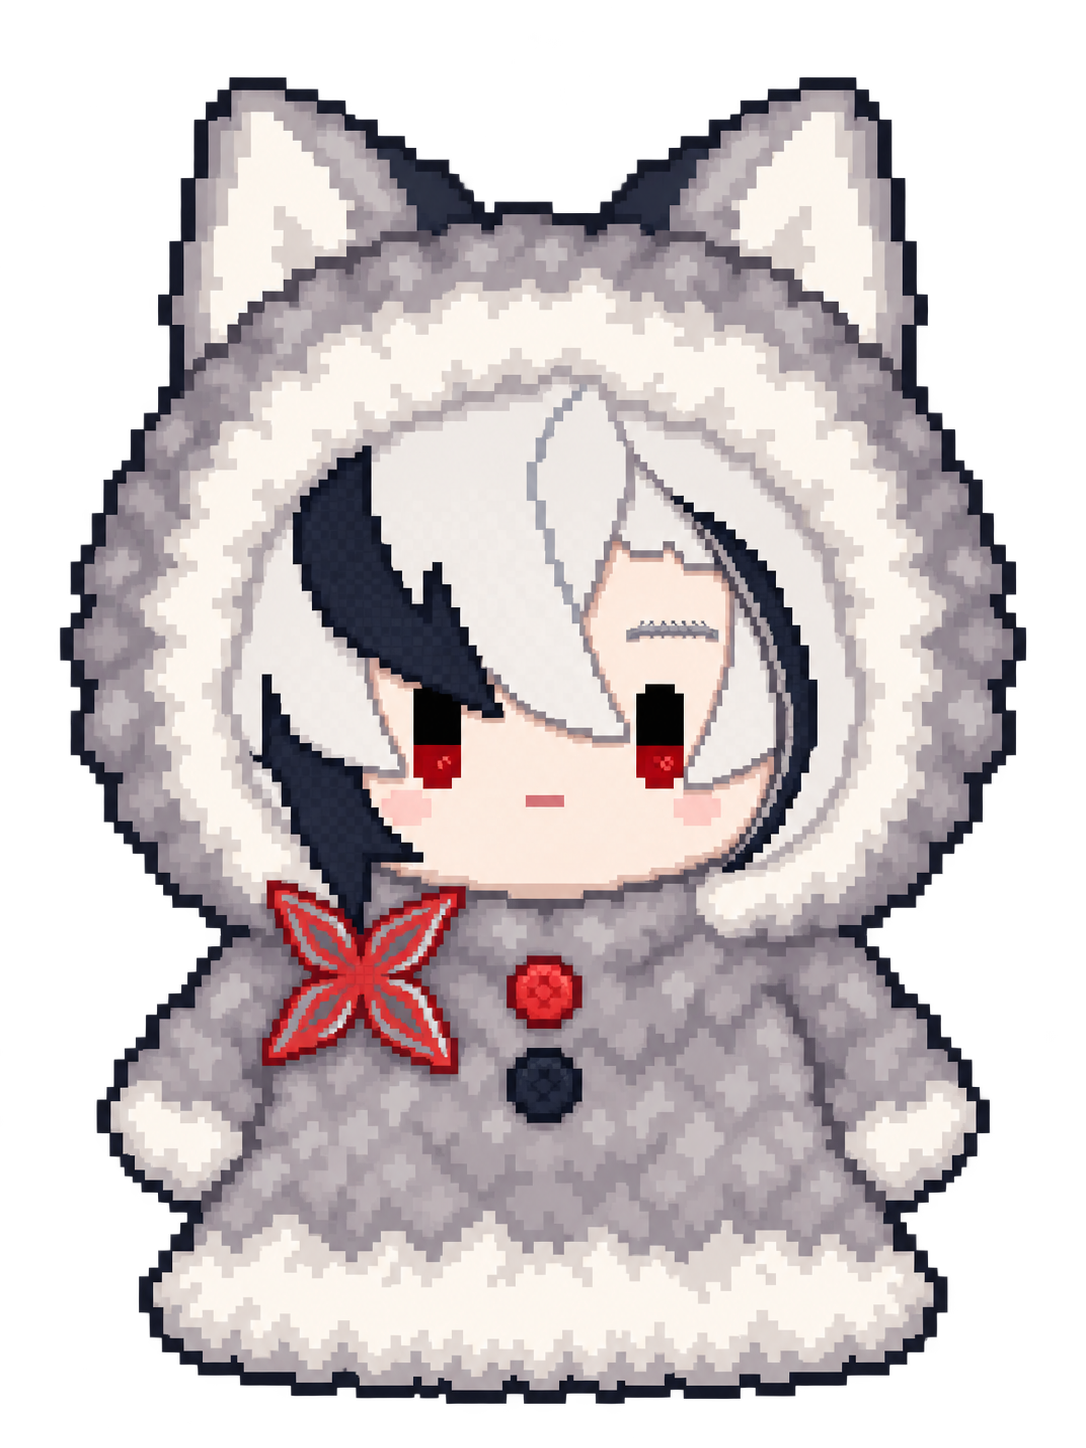
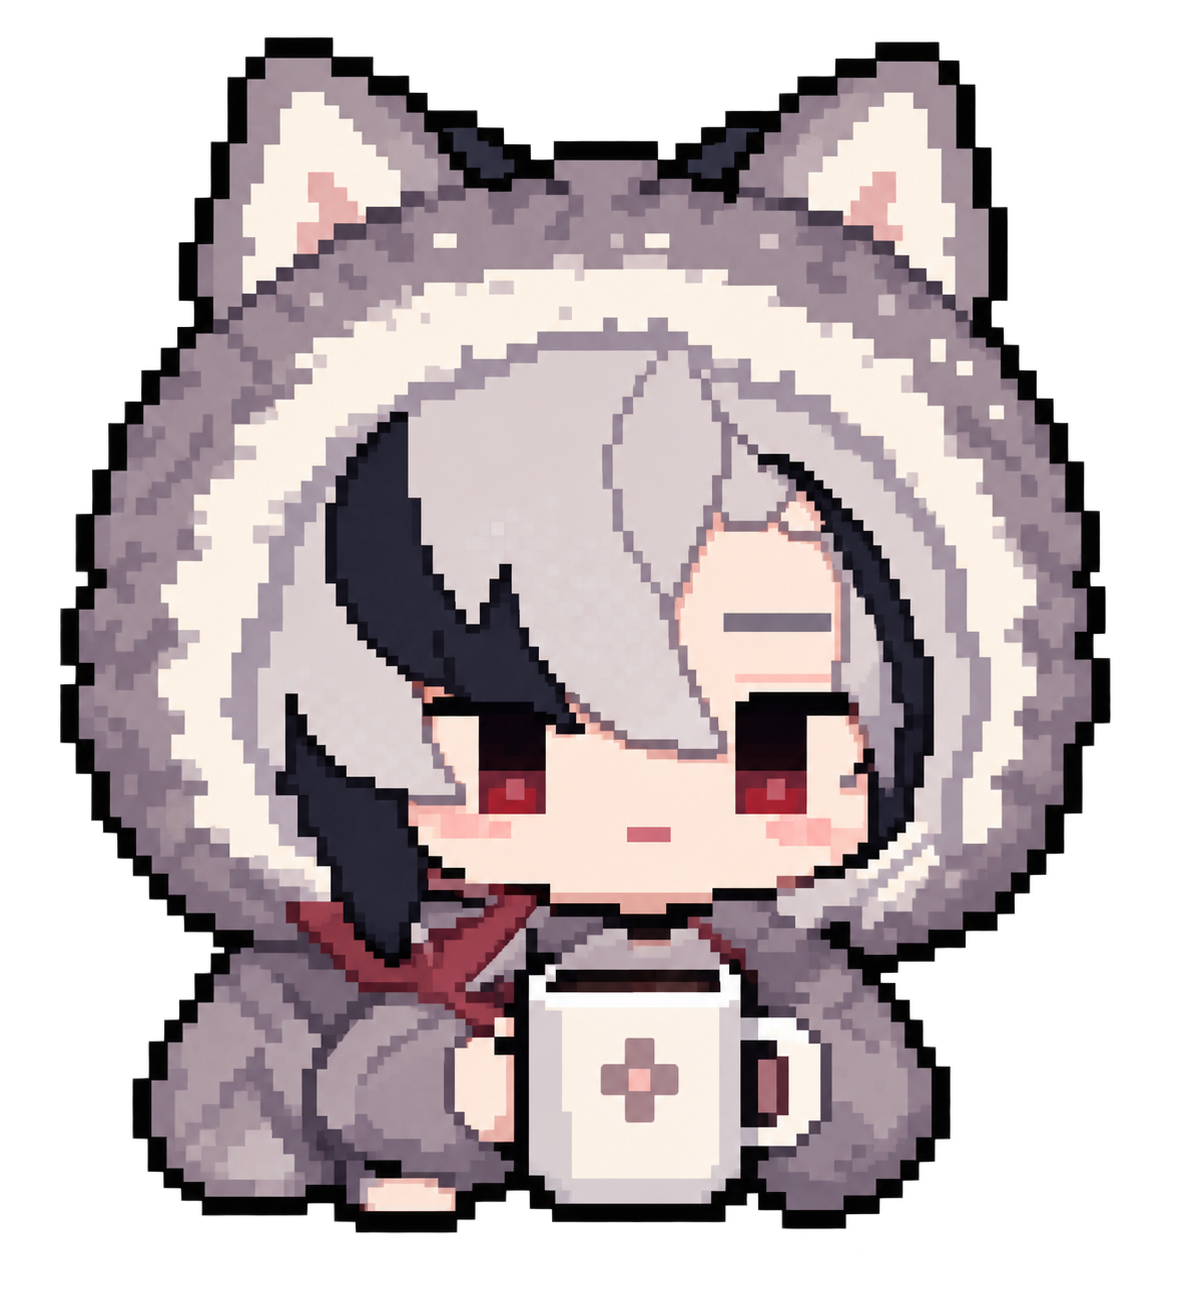
Add files via upload

diff --git a/index.html b/index.html
@@ -9,10 +9,10 @@
   <meta name="apple-mobile-web-app-title" content="Pixel Clock">
   <title>Pixel Desk Clock</title>
   <link rel="manifest" href="manifest.webmanifest">
-  <link rel="stylesheet" href="style.css?v=6.2.0">
-  <link rel="stylesheet" href="room.css?v=6.2.0">
-  <link rel="stylesheet" href="characters.css?v=6.2.0">
-<link rel="stylesheet" href="scenes.css?v=6.2.0">
+  <link rel="stylesheet" href="style.css?v=6.3.0">
+  <link rel="stylesheet" href="room.css?v=6.3.0">
+  <link rel="stylesheet" href="characters.css?v=6.3.0">
+<link rel="stylesheet" href="scenes.css?v=6.3.0">
 </head>
 <body>
 <div class="world evening" id="world">
@@ -413,8 +413,8 @@
   <!-- The existing bubble id is retained for app.js. Decorative companions do not capture taps. -->
   <div class="window-companions" id="petHome" aria-hidden="true">
     <div class="companion-bubble" id="bubble"></div>
-    <img class="companion companion-character" src="assets/character.png" alt="" draggable="false">
-    <img class="companion companion-cat" src="assets/sleeping-cat.png" alt="" draggable="false">
+    <img class="companion companion-character" src="assets/character.png?v=6.3.0" alt="" draggable="false">
+    <img class="companion companion-cat" src="assets/sleeping-cat.png?v=6.3.0" alt="" draggable="false">
     <svg class="sleep-marks" viewBox="0 0 20 32" xmlns="http://www.w3.org/2000/svg" aria-hidden="true" focusable="false" shape-rendering="crispEdges"><path d="M11 0h9v2h-2v2h-2v2h4v2h-9V6h2V4h2V2h-4zM5 12h9v2h-2v2h-2v2h4v2H5v-2h2v-2h2v-2H5zM0 24h7v2H5v2H3v2h4v2H0v-2h2v-2h2v-2H0z"/></svg>
   </div>
   <details class="dev-panel"><summary aria-label="背景の時間帯を選ぶ">◆</summary><div>
@@ -422,5 +422,5 @@
     <button data-scene="lateMorning">午前</button><button data-scene="day">午後</button><button data-scene="evening">夕</button><button data-scene="night">夜</button>
   </div></details>
 </div>
-<script src="app.js?v=6.2.0"></script>
+<script src="app.js?v=6.3.0"></script>
 </body></html>

diff --git a/characters.css b/characters.css
@@ -28,3 +28,7 @@
 /* Preserve the existing portrait policy: the calendar uses the lower area. */
 @media(orientation:portrait) {.window-companions {display:none}}
 
+
+/* Step 7-1: seated mug pose and compact sleeping cat. */
+.window-companions .companion-character{left:0;bottom:-4%;width:44%;height:100%}
+.window-companions .companion-cat{left:47%;bottom:-2%;width:48%;height:48%}
